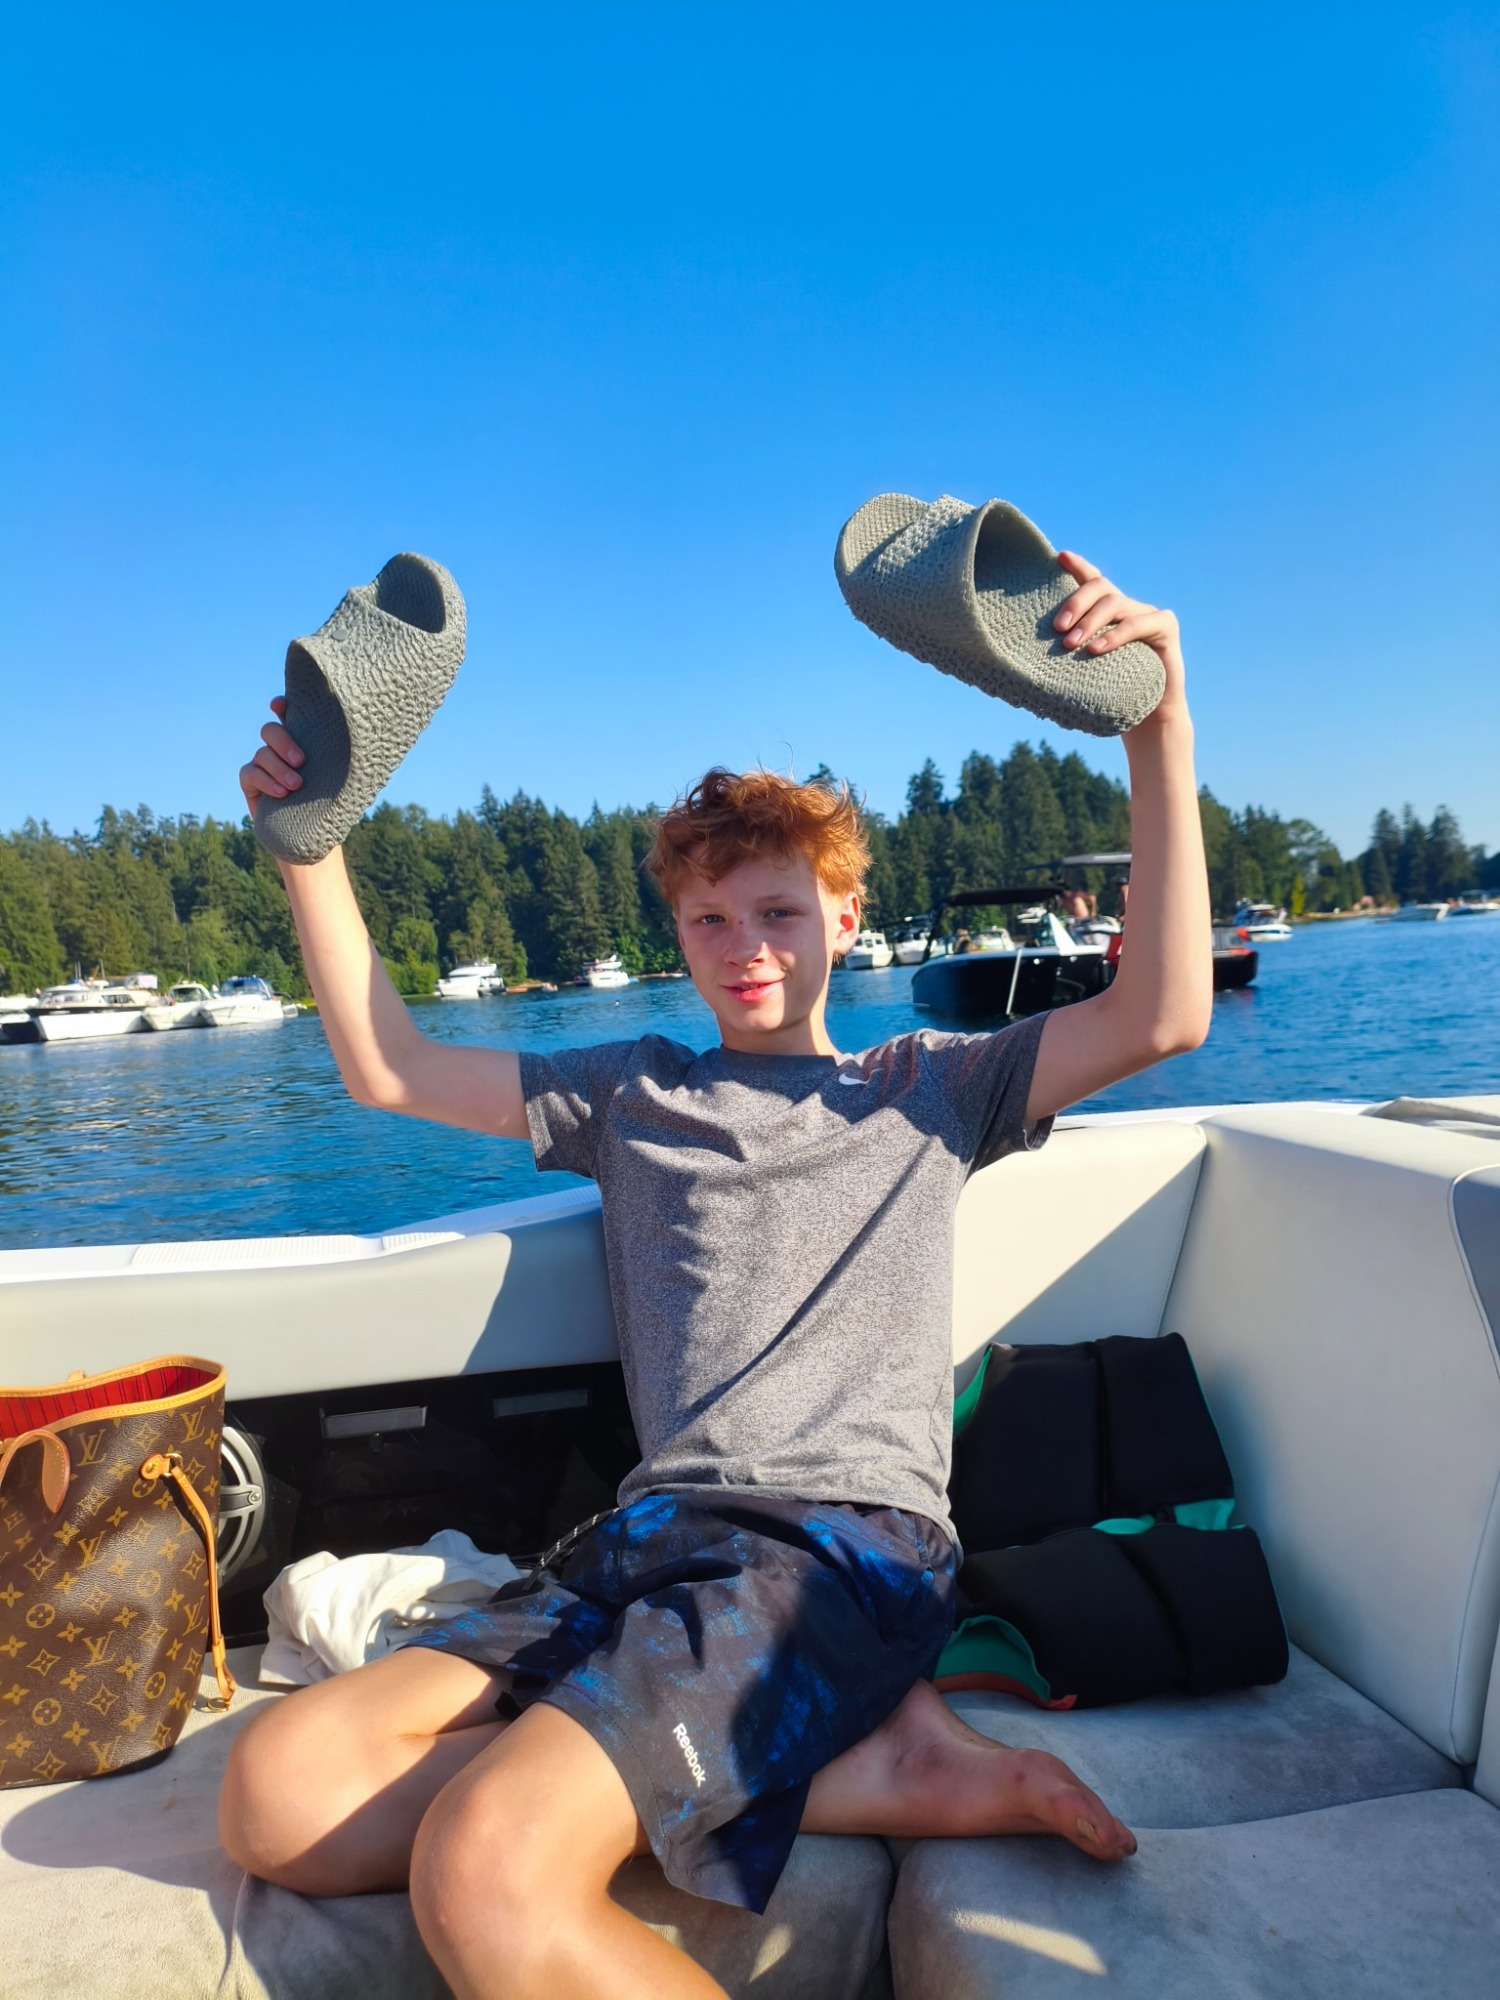
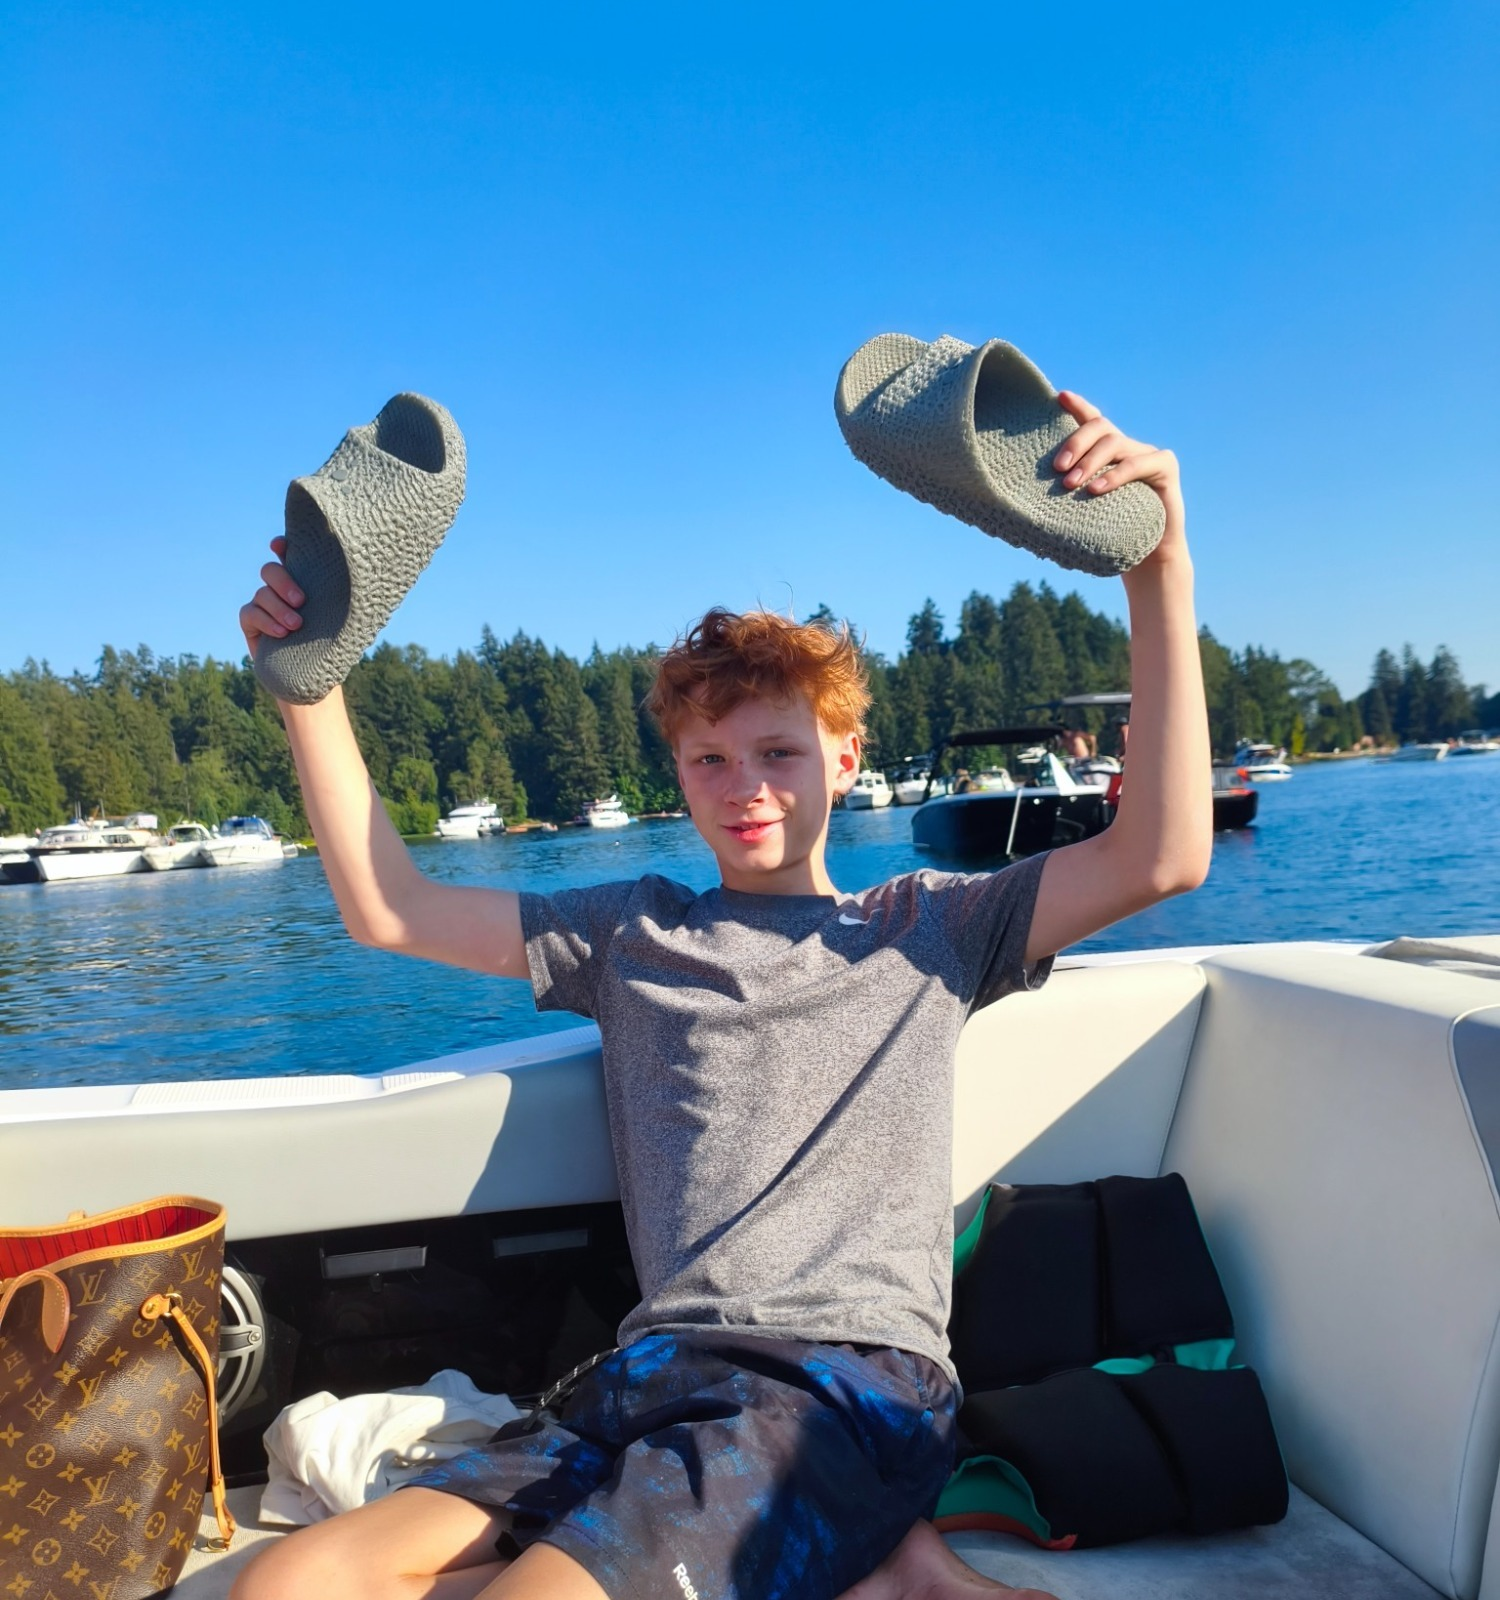
Fix redhead boat crop: taller frame, slides visible, bottom only.
The prior tight bottom crop made the photo too wide for portrait
object-cover, clipping the held slides and crowding the face. Keep
more height, trim a little sky, show the lifestyle band once near
All Footwear, and drop the duplicate under V3 / education.

diff --git a/web/src/app/products/ProductsContent.tsx b/web/src/app/products/ProductsContent.tsx
@@ -22,11 +22,13 @@ import HomeSecondaryLinks from "@/components/HomeSecondaryLinks";
 import PrintedFootwearEducation from "@/components/apparel/PrintedFootwearEducation";
 import FootwearBrowse from "@/components/footwear/FootwearBrowse";
 import HomeFootwearHighlights from "@/components/footwear/HomeFootwearHighlights";
+import LifestyleBand from "@/components/footwear/LifestyleBand";
 import FootGlowSection from "@/components/FootGlowSection";
 import MotionMediaCarousel from "@/components/MotionMediaCarousel";
 import { MAGIKID_SHOES_THUMBNAIL_URL } from "@/lib/magikidShoesThumbnail";
 import { GATORS_SLUG, GATORS_THUMBNAIL_URL } from "@/lib/gators";
 import { PEPPERMINT_MIST_SLUG } from "@/lib/aineFernPeppermintMist";
+import { V3_SLIDES_STREET_SHOT } from "@/lib/homeLifestyle";
 
 /** Homepage apparel teaser — a couple of highlights, not the full catalog. */
 const HOME_APPAREL_TEASER_SLUGS = [
@@ -688,6 +690,10 @@ export default function ProductsContent({
             <TakeTheQuizPromo className="mt-16 sm:mt-24 lg:mt-28" />
             <HomeSecondaryLinks className="mt-12 sm:mt-16" />
             <PrintedFootwearEducation className="mt-16 sm:mt-24 lg:mt-28" />
+            {/* Redhead boat lifestyle — bottom of home only (removed from above V3 spotlights) */}
+            <div className="mt-16 sm:mt-24 lg:mt-28">
+              <LifestyleBand shot={V3_SLIDES_STREET_SHOT} />
+            </div>
             {/* All footwear catalog — bottom of home, after spotlights and other sections */}
             <div className="mt-16 space-y-8 sm:mt-24 sm:space-y-10 lg:mt-28">
               <FootwearBrowse

diff --git a/web/src/components/footwear/LifestyleBand.tsx b/web/src/components/footwear/LifestyleBand.tsx
@@ -26,7 +26,8 @@ export default function LifestyleBand({
       <div
         className={`relative mx-auto w-full overflow-hidden bg-neutral-100 ${
           portrait
-            ? "aspect-[3/4] max-h-[78vh] sm:aspect-[4/5] sm:max-w-3xl lg:max-w-4xl"
+            ? // Near-square portrait so the redhead boat frame keeps face + held slides in view
+              "aspect-[15/16] max-h-[90vh] sm:max-w-3xl lg:max-w-4xl"
             : "aspect-[16/9] sm:max-w-5xl lg:max-w-6xl"
         }`}
       >
@@ -35,7 +36,11 @@ export default function LifestyleBand({
           alt={shot.alt}
           fill
           priority={priority}
-          className="object-cover object-center"
+          className={
+            portrait
+              ? "object-cover object-[center_20%]"
+              : "object-cover object-center"
+          }
           sizes={
             portrait
               ? "(max-width: 640px) 100vw, (max-width: 1024px) 48rem, 56rem"

diff --git a/web/src/components/footwear/HomeFootwearHighlights.tsx b/web/src/components/footwear/HomeFootwearHighlights.tsx
@@ -3,8 +3,6 @@
 import Link from "next/link";
 import type { ReactNode } from "react";
 import HomeProductSpotlight from "@/components/footwear/HomeProductSpotlight";
-import LifestyleBand from "@/components/footwear/LifestyleBand";
-import { V3_SLIDES_STREET_SHOT } from "@/lib/homeLifestyle";
 
 /** Main wearable shoes highlighted individually on the home page. */
 const SPOTLIGHT_SLUGS = ["v3-slides", "slip-ons", "dragonfly", "magikid-shoes"] as const;
@@ -33,10 +31,8 @@ export default function HomeFootwearHighlights({
         </p>
       </header>
 
-      {/* V3 Slides + gallery redhead lifestyle frame */}
-      <section aria-label="V3 Slides" className="space-y-10 sm:space-y-12">
+      <section aria-label="V3 Slides">
         <HomeProductSpotlight slug={SPOTLIGHT_SLUGS[0]} />
-        <LifestyleBand shot={V3_SLIDES_STREET_SHOT} priority />
       </section>
 
       <section aria-label="Slip Ons">

diff --git a/web/src/components/apparel/PrintedFootwearEducation.tsx b/web/src/components/apparel/PrintedFootwearEducation.tsx
@@ -1,6 +1,3 @@
-import Image from "next/image";
-import { V3_SLIDES_STREET_SHOT } from "@/lib/homeLifestyle";
-
 type PrintedFootwearEducationProps = {
   className?: string;
 };
@@ -46,16 +43,6 @@ export default function PrintedFootwearEducation({
         finished with the care of a company that has spent years getting every
         step of this right.
       </p>
-
-      <div className="relative mt-8 aspect-[16/9] overflow-hidden rounded-xl">
-        <Image
-          src={V3_SLIDES_STREET_SHOT.src}
-          alt={V3_SLIDES_STREET_SHOT.alt}
-          fill
-          className="object-cover object-center"
-          sizes="(max-width: 768px) 100vw, 56rem"
-        />
-      </div>
 
       <div className="mt-8 grid grid-cols-1 sm:grid-cols-2 gap-6 sm:gap-8 max-w-4xl mx-auto">
         {TOPICS.map((topic) => (

diff --git a/web/src/components/about/AboutStory.tsx b/web/src/components/about/AboutStory.tsx
@@ -8,12 +8,12 @@ type AboutStoryProps = {
 export default function AboutStory({ priority = false }: AboutStoryProps) {
   return (
     <div className="grid grid-cols-1 items-center gap-12 lg:grid-cols-2 lg:gap-16 max-w-6xl mx-auto">
-      <div className="relative aspect-[3/4] w-full overflow-hidden rounded-2xl ring-1 ring-neutral-200 shadow-lg">
+      <div className="relative aspect-[15/16] w-full overflow-hidden rounded-2xl ring-1 ring-neutral-200 shadow-lg">
         <Image
           src={V3_SLIDES_STREET_SHOT.src}
           alt={V3_SLIDES_STREET_SHOT.alt}
           fill
-          className="object-cover object-center"
+          className="object-cover object-[center_20%]"
           priority={priority}
           sizes="(max-width: 1024px) 100vw, 50vw"
         />

diff --git a/web/src/lib/homeLifestyle.ts b/web/src/lib/homeLifestyle.ts
@@ -1,6 +1,6 @@
 /**
  * Lifestyle / model photography for the homepage and related brand surfaces.
- * Homepage post-slides band uses the gallery redhead boat frame.
+ * Homepage shows the gallery redhead boat frame once, near the bottom.
  */
 export type LifestyleShot = {
   id: string;
